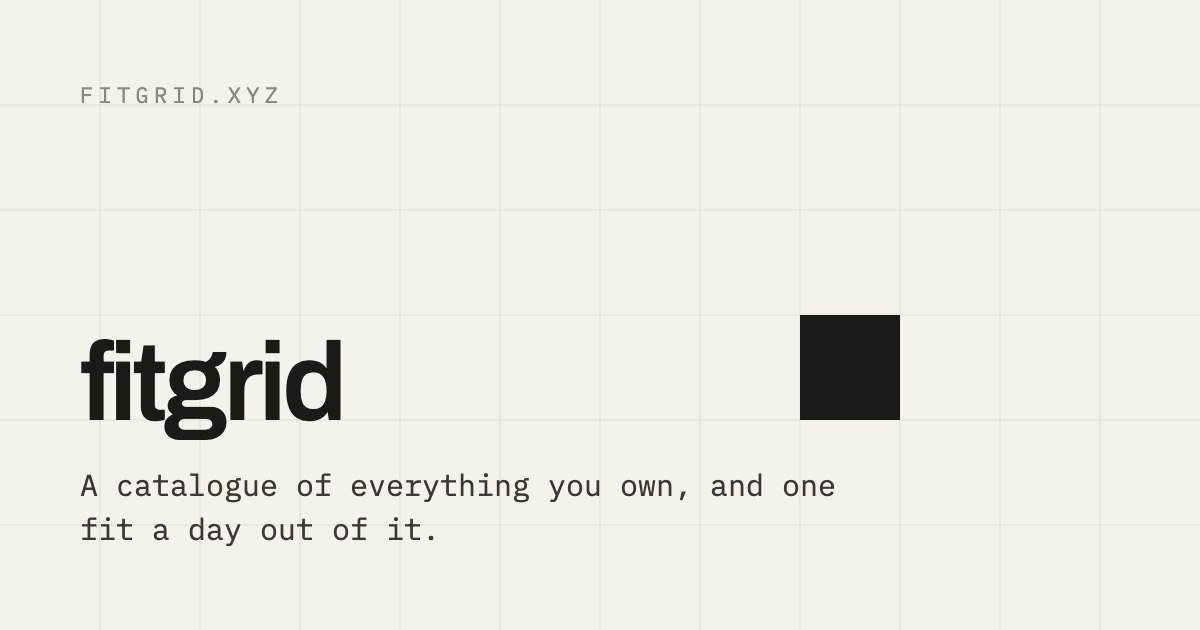
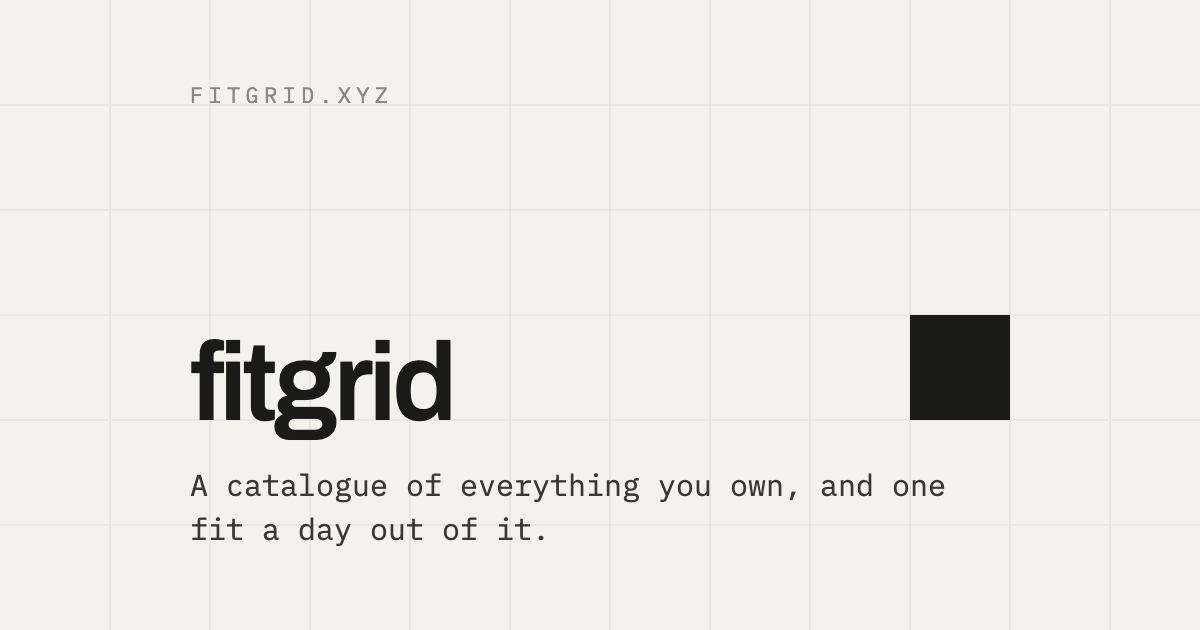
Attach files from the entry row, and read listings more honestly
Four things, all found by measuring what the deployed site actually does.

The add screen's image tab had no working way in on a phone. Its button
said "Cut out" over a field that only takes a URL, so pressing it with
nothing typed did nothing at all, and the only route to a file was
clicking the dashed frame — which is not a control anyone finds, and on
a touch screen there is no drag and drop to fall back on either. The
button now attaches a file until there is a URL in the field to run
instead, and says which of the two it currently is.

The listing parser took element zero of schema.org's `image` list.
Shopify — most of the independent shops anyone pastes — publishes one
photograph repeated at ascending widths, thumbnail first, so Allbirds
handed the segmenter a 100px square. It now takes the largest size the
page names, and skips a URL the page never finished templating, which
is what lets SSENSE's OpenGraph tag be used instead of its unresolved
Cloudinary path.

A listing whose picture is an SVG is no longer a listing. microlink read
Uniqlo's Akamai wall and answered 200 with the SKU as the name and
Akamai's logo as the photograph — a card claiming the listing had been
read, and a cut-out of a vendor logo. The title said nothing the wall
test recognises; the picture did.

And the link preview is centred. The brand kit composed it flush left,
with 300 of the 1200 columns empty on the right, which is fine at the
[…]

diff --git a/src/ingest/listing/parse.ts b/src/ingest/listing/parse.ts
@@ -88,6 +88,7 @@ export function normaliseUrl(input: string): string {
 
 export function toListing(fields: ListingFields, url: string, via: ReaderId): Listing | null {
   if (!fields.name || !fields.imageUrl || isErrorPage(fields.name)) return null;
+  if (isVectorImage(fields.imageUrl)) return null;
   return {
     url,
     name: fields.name,
@@ -128,7 +129,7 @@ export function parseProductHtml(html: string, pageUrl: string): ListingFields {
       meta.get('product:price:currency') ?? meta.get('og:price:currency'),
     );
 
-  const image = firstImage(product) ?? meta.get('og:image') ?? meta.get('twitter:image');
+  const image = bestImage(product) ?? meta.get('og:image') ?? meta.get('twitter:image');
 
   return fields({
     name: title ? stripSiteSuffix(title, pageUrl, siteName) : undefined,
@@ -190,6 +191,23 @@ const ERROR_PAGE = [
 export function isErrorPage(name: string): boolean {
   return ERROR_PAGE.some((pattern) => pattern.test(name.trim()));
 }
+/**
+ * A product photograph is never an SVG.
+ *
+ * This is the second half of the wall test, and it catches the walls the title
+ * does not. microlink read Uniqlo's Akamai interstitial and answered 200 with
+ * the SKU as the name — nothing `isErrorPage` recognises — and Akamai's own
+ * logo as the picture, so the visitor got a card claiming the listing had been
+ * read and a cut-out of a vendor logo. Shops publish photographs; the
+ * interstitials in front of them publish logos, and logos are vector.
+ *
+ * It costs nothing real either way: the segmenter needs pixels, and Safari
+ * will not give `createImageBitmap` a bitmap from an SVG blob at all.
+ */
+function isVectorImage(url: string): boolean {
+  return /\.svgz?(?:[?#]|$)/i.test(url);
+}
+
 /** The shop, as a person would name it. */
 export function hostname(url: string): string {
   try {
@@ -365,10 +383,54 @@ function firstOffer(product: JsonObject | undefined): JsonObject | undefined {
   return object(single?.['offers']) ?? object(asArray(single?.['offers'])[0]) ?? single;
 }
 
-function firstImage(product: JsonObject | undefined): string | undefined {
+/**
+ * The product photograph, at the largest size the page names for it.
+ *
+ * schema.org lets `image` be a list, and Shopify — which is most of the
+ * independent shops anyone actually pastes — publishes one photograph repeated
+ * at ascending widths with the thumbnail first. Taking element zero handed the
+ * segmenter a 100px square and filed a 100px cut-out in the wardrobe.
+ *
+ * The size is in the URL rather than in the JSON, so it is read from there. A
+ * URL that names no width scores zero and only wins if nothing else is marked,
+ * which leaves a list of genuinely different photographs on its first entry —
+ * the behaviour every page that is not doing the Shopify thing relies on.
+ */
+function bestImage(product: JsonObject | undefined): string | undefined {
   const image = product?.['image'];
-  const candidate = Array.isArray(image) ? image[0] : image;
-  return str(candidate) ?? str(object(candidate)?.['url']);
+  let best: string | undefined;
+  let widest = -1;
+
+  for (const candidate of Array.isArray(image) ? image : [image]) {
+    const url = str(candidate) ?? str(object(candidate)?.['url']);
+    if (!url || isTemplate(url)) continue;
+    const width = declaredWidth(url);
+    if (width > widest) {
+      best = url;
+      widest = width;
+    }
+  }
+  return best;
+}
+
+/** The pixel width a URL names, or 0 when it names none. */
+export function declaredWidth(url: string): number {
+  const query = /[?&](?:width|w|sw|size)=(\d{2,5})(?!\d)/i.exec(url);
+  if (query?.[1]) return Number(query[1]);
+  const path = /(?<!\d)(\d{2,5})x\d{2,5}(?!\d)/.exec(url);
+  return path?.[1] ? Number(path[1]) : 0;
+}
+
+/**
+ * A URL the page never finished writing.
+ *
+ * SSENSE ships `.../upload/__IMAGE_PARAMS__/262358M192030_1.jpg` in its
+ * structured data — the transform is filled in by its own client at render
+ * time, so what is in the HTML 404s. Treating it as no image at all is what
+ * lets the OpenGraph tag underneath it be used instead, which is a real URL.
+ */
+function isTemplate(url: string): boolean {
+  return /__[A-Z_]+__|\{\{?[a-z_]+\}?\}|%7B/i.test(url);
 }
 
 function brandName(brand: Json | undefined): string | undefined {

diff --git a/src/screens/add-item/AddItemScreen.tsx b/src/screens/add-item/AddItemScreen.tsx
@@ -70,6 +70,14 @@ export function AddItemScreen() {
 
   const drop = useFileDrop(takeFile);
 
+  /*
+   * Opening the picker is a separate verb from submitting, because on the
+   * image path they are two different things: the field takes a URL and the
+   * button takes a file. The frame is still clickable, but a dashed square is
+   * not a control anyone finds on a phone, where there is no drop either.
+   */
+  const pickFile = () => picker.current?.click();
+
   const addCutoutItem = () => {
     if (!cutout) return;
     addItem(itemFromDraft(draft, cutout, crypto.randomUUID(), source.id));
@@ -78,6 +86,18 @@ export function AddItemScreen() {
 
   const busy = phase === 'running';
   const succeeded = phase === 'cutout';
+
+  /*
+   * On the image path the entry button attaches a file until there is a URL in
+   * the field to run instead. It used to say "Cut out" over an empty field and
+   * do nothing when pressed — the only way to hand over a file was the dashed
+   * frame, and on a touch screen, where there is no drag and drop at all, that
+   * left the tab with no working way in.
+   *
+   * The label says which of the two it currently is rather than the button
+   * quietly changing meaning underneath it.
+   */
+  const attaches = source.id === 'image' && !busy && !succeeded && flow.value.trim() === '';
 
   const frameContent =
     phase === 'cutout' && cutout ? (
@@ -115,31 +135,31 @@ export function AddItemScreen() {
      * the browser, and the page — with anything typed into it — was gone.
      */
     <main className={styles.layout} {...drop.handlers}>
+      {/*
+        Mounted for both tabs, because the picker is now opened from the entry
+        row as well as from the frame, and a file arriving on the link tab
+        switches to the image tab rather than being refused.
+      */}
+      <input
+        ref={picker}
+        className={styles.picker}
+        type="file"
+        accept="image/*"
+        tabIndex={-1}
+        onChange={(event) => {
+          const file = event.target.files?.[0];
+          // Cleared so that choosing the same file twice running still
+          // fires a change event and re-runs the pipeline.
+          event.target.value = '';
+          if (file) takeFile(file);
+        }}
+      />
+
       <div className={styles.left}>
         {source.id === 'image' ? (
-          <>
-            <button
-              type="button"
-              className={`${frameClass} ${styles.framePick}`}
-              onClick={() => picker.current?.click()}
-            >
-              {frameContent}
-            </button>
-            <input
-              ref={picker}
-              className={styles.picker}
-              type="file"
-              accept="image/*"
-              tabIndex={-1}
-              onChange={(event) => {
-                const file = event.target.files?.[0];
-                // Cleared so that choosing the same file twice running still
-                // fires a change event and re-runs the pipeline.
-                event.target.value = '';
-                if (file) takeFile(file);
-              }}
-            />
-          </>
+          <button type="button" className={`${frameClass} ${styles.framePick}`} onClick={pickFile}>
+            {frameContent}
+          </button>
         ) : (
           <div className={frameClass}>{frameContent}</div>
         )}
@@ -181,8 +201,14 @@ export function AddItemScreen() {
             }}
             disabled={busy}
           />
-          <Button size="lg" onClick={flow.submit} disabled={busy}>
-            {busy ? source.busyButton : succeeded ? 'Add another' : source.button}
+          <Button size="lg" onClick={attaches ? pickFile : flow.submit} disabled={busy}>
+            {busy
+              ? source.busyButton
+              : succeeded
+                ? 'Add another'
+                : attaches
+                  ? 'Choose file'
+                  : source.button}
           </Button>
         </div>
 

diff --git a/src/ingest/listing/parse.test.ts b/src/ingest/listing/parse.test.ts
@@ -1,5 +1,6 @@
 import { describe, expect, it } from 'vitest';
 import {
+  declaredWidth,
   formatPrice,
   groupCode,
   imageCandidates,
@@ -10,6 +11,7 @@ import {
   parseMicrolink,
   parseProductHtml,
   stripSiteSuffix,
+  toListing,
 } from './parse';
 
 const PAGE_URL = 'https://www.pacsun.com/fear-of-god-essentials/jet-black-hoodie.html';
@@ -99,6 +101,82 @@ describe('parseProductHtml', () => {
       name: 'Wool Jumper',
       imageUrl: 'https://arket.com/j.jpg',
     });
+  });
+});
+
+describe('the product image', () => {
+  /** What every Shopify shop serves: one photograph, ascending widths. */
+  const shopify = `<html><head>
+    <script type="application/ld+json">
+    {"@type":"Product","name":"Wool Runner",
+     "image":["https://cdn.shop/a.png?v=1&width=100",
+              "https://cdn.shop/a.png?v=1&width=300",
+              "https://cdn.shop/a.png?v=1&width=1200"]}
+    </script></head></html>`;
+
+  it('takes the largest size a repeated photograph is offered at', () => {
+    expect(parseProductHtml(shopify, PAGE_URL).imageUrl).toBe(
+      'https://cdn.shop/a.png?v=1&width=1200',
+    );
+  });
+
+  it('keeps the first of a list of different, unmarked photographs', () => {
+    const html = `<html><head>
+      <script type="application/ld+json">
+      {"@type":"Product","name":"Wool Runner",
+       "image":["https://cdn.shop/front.png","https://cdn.shop/back.png"]}
+      </script></head></html>`;
+    expect(parseProductHtml(html, PAGE_URL).imageUrl).toBe('https://cdn.shop/front.png');
+  });
+
+  it('falls back to OpenGraph when the structured URL was never filled in', () => {
+    const html = `<html><head>
+      <meta property="og:image" content="https://cdn.ssense.com/real.jpg">
+      <script type="application/ld+json">
+      {"@type":"Product","name":"Zip Shirt",
+       "image":"https://res.cloudinary.com/x/upload/__IMAGE_PARAMS__/1.jpg"}
+      </script></head></html>`;
+    expect(parseProductHtml(html, PAGE_URL).imageUrl).toBe('https://cdn.ssense.com/real.jpg');
+  });
+});
+
+describe('declaredWidth', () => {
+  it('reads the width a query string names', () => {
+    expect(declaredWidth('https://cdn.shop/a.png?v=1759336475&width=1200')).toBe(1200);
+  });
+
+  it('reads a width from a sized path segment', () => {
+    expect(declaredWidth('https://cdn.shop/1000x1000/a.jpg')).toBe(1000);
+  });
+
+  it('does not mistake a cache-busting timestamp for a size', () => {
+    expect(declaredWidth('https://cdn.shop/a.png?w=1759336475')).toBe(0);
+  });
+
+  it('scores an unmarked URL zero', () => {
+    expect(declaredWidth('https://cdn.shop/a.png')).toBe(0);
+  });
+});
+
+describe('toListing', () => {
+  it('refuses a bot wall that answered with a vendor logo', () => {
+    expect(
+      toListing(
+        { name: 'E474972-000', imageUrl: 'https://www.akamai.com/images/logo/akamai-logo1.svg' },
+        'https://www.uniqlo.com/us/en/products/E474972-000',
+        'microlink',
+      ),
+    ).toBeNull();
+  });
+
+  it('keeps a listing whose photograph is a raster image', () => {
+    expect(
+      toListing(
+        { name: 'Wool Runner', imageUrl: 'https://cdn.shop/a.png?v=1' },
+        'https://cdn.shop/p/1',
+        'server',
+      ),
+    ).toMatchObject({ name: 'Wool Runner', via: 'server' });
   });
 });
 

diff --git a/src/ingest/sources.ts b/src/ingest/sources.ts
@@ -49,11 +49,13 @@ export const SOURCES: readonly Source[] = [
   {
     id: 'image',
     tab: 'Drop an image',
-    placeholder: 'drop a file, or paste an image URL',
+    placeholder: 'paste an image URL, or choose a file',
     hint:
-      'Found it on Pinterest or a lookbook? Drop the file anywhere on this screen, click ' +
-      'the frame to pick one, or paste its URL — the background comes off in your browser.',
-    idleCaption: ['Drop an image here,', 'or click to choose a file'],
+      'Found it on Pinterest or a lookbook? Choose a file, drop one anywhere on this ' +
+      'screen, or paste its URL — the background comes off in your browser.',
+    // Not "click": the frame is a tap target too, and on a phone it is the
+    // only one of the three routes the caption can honestly offer.
+    idleCaption: ['Drop an image here,', 'or choose a file'],
     busyCaption: 'Removing background',
     credit: 'Background removed in your browser. Nothing was uploaded anywhere.',
     button: 'Cut out',
